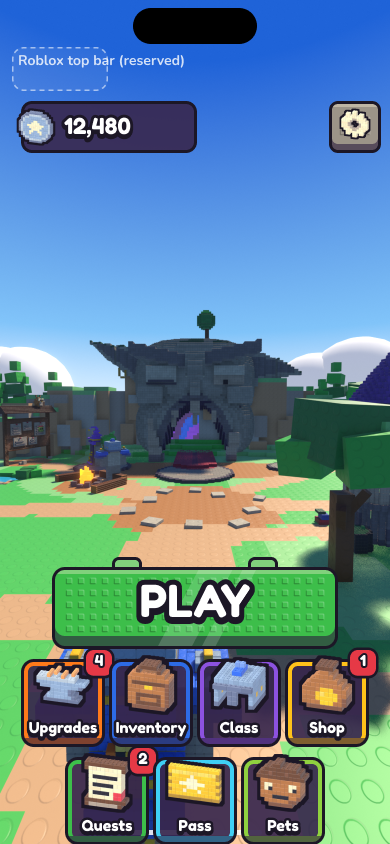
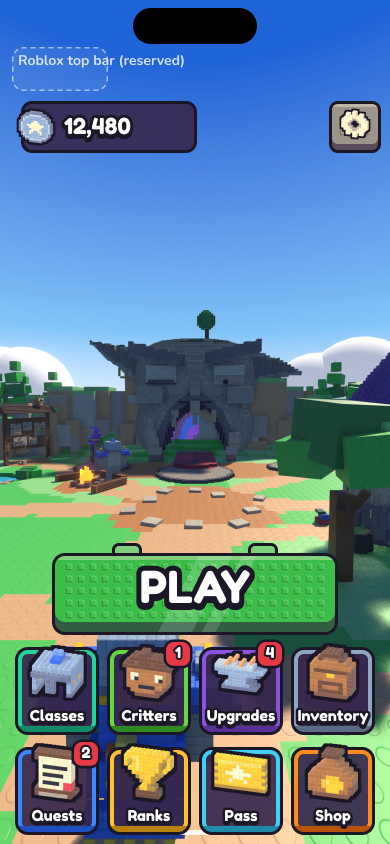
A08 : barre du lobby alignée sur A09, corrections de composants
- Lobby/BarButton : 8 boutons dans l'ordre d'A09 (Classes, Critters,
  Upgrades, Inventory, Quests, Ranks, Pass, Shop), liserés aux couleurs
  zone/*, pastilles seulement sur Quests, Critters et Upgrades, rentrées
  dans les boutons.
- Button M à 44 px, libellés de tuiles plus larges, CloseButton v3.
- Écrans LB01 à LB04 et captures mis à jour, dossier 60.

Changed region(s): [[0.0308, 0.6161, 0.9846, 1.0]]

diff --git a/docs/dossier/60-ui-ux.md b/docs/dossier/60-ui-ux.md
@@ -117,22 +117,33 @@ Composants ajoutés à « Components v3 — briques » :
 | `Lobby/BarButton` | Tuile sombre cerclée d'une couleur par menu. Grosse icône 3D en briques qui dépasse en haut, libellé de 15 px, badge rouge avec le nombre de nouveautés. |
 | `Lobby/Currency` | Plaque de Silver en haut à gauche. |
 
-Liste proposée pour la barre (finale avec A09) :
+Barre alignée sur A09 (`docs/dossier/65-lobby.md` §2 de sa branche) : 8 boutons dans son ordre. Les libellés « Classes » et « Critters » attendent la réponse de Clément ; ce sont des propriétés, donc faciles à changer. Le liseré prend la couleur de zone du menu (variables `zone/*`) : c'est la même couleur que l'en-tête du menu et le bâtiment.
 
-| Bouton | Icône | Couleur du liseré |
-| --- | --- | --- |
-| Upgrades | Enclume | Orange |
-| Inventory | Sac à dos | Bleu |
-| Class | Casque de chevalier d'A01 | Violet |
-| Shop | Bourse | Or |
-| Quests | Parchemin | Vert |
-| Pass | Ticket | Ciel |
-| Pets (Companions) | Gland à frimousse | Vert clair |
+| Bouton | Icône | Liseré | Pastille |
+| --- | --- | --- | --- |
+| Classes | Casque de chevalier d'A01 | zone/classes (turquoise) | non |
+| Critters | Gland à frimousse | zone/critters (vert) | oui |
+| Upgrades | Enclume | violet (pas de zone) | oui |
+| Inventory | Sac à dos | acier (pas de zone) | non |
+| Quests | Parchemin | zone/quests (bleu) | oui |
+| Ranks | Trophée | zone/ranks (or) | non |
+| Pass | Ticket | ciel (pas de zone) | **jamais** |
+| Shop | Bourse | zone/shop (orange) | **jamais** |
+
+Pas de pastille sur Shop ni Pass : on ne pousse pas à l'achat un public de 9 à 15 ans.
 
 Placement selon le format :
-- **Paysage** : une rangée de 7 boutons au-dessus de la barre du bas de l'écran.
-- **Portrait** : deux rangées, 4 puis 3.
-- **PC** : Entrée lance PLAY, et les touches 1 à 7 ouvrent les menus.
+- **Paysage** : une rangée de 8 boutons espacés de 14 px, au-dessus de la barre du bas de l'écran.
+- **Portrait** : deux rangées de 4.
+- **PC** : Entrée lance PLAY, et les touches 1 à 8 ouvrent les menus.
+
+PLAY reste vert : c'est le rôle « Go » partout dans le jeu. La variable `zone/play` (violette) sert au portail. Si A09 veut la même couleur partout, c'est `zone/play` qui passe au vert.
+
+Corrections demandées par A09 :
+- Button M fait maintenant 44 px de haut.
+- Le libellé des tuiles peut faire jusqu'à 9 lettres à 16 px.
+- Les pastilles sont rentrées dans les boutons de la barre.
+- Nouveau **CloseButton v3** : brique rouge de 46 px avec une croix blanche, réservé aux menus du lobby.
 
 **Icônes d'armes** : A14 passe les armes en pixel art extrudé et livrera les PNG. Ces sprites remplaceront mes icônes d'armes en briques (épée, chaîne d'éclairs, bâton de feu, haches) dans la barre d'armes, l'inventaire et le passage de niveau. Les effets restent lisses et lumineux, c'est le domaine d'A14.
 
